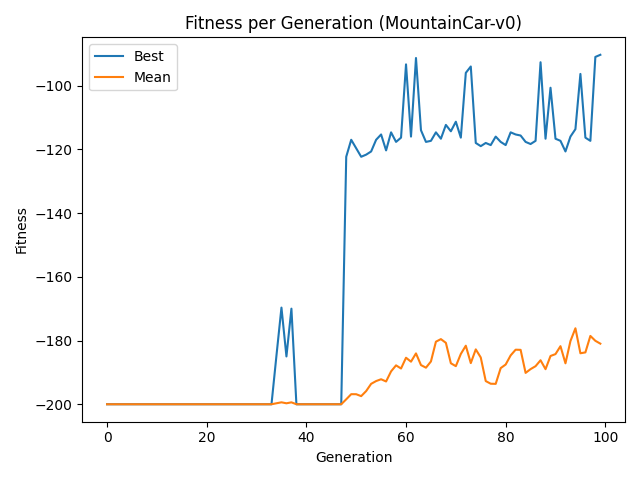
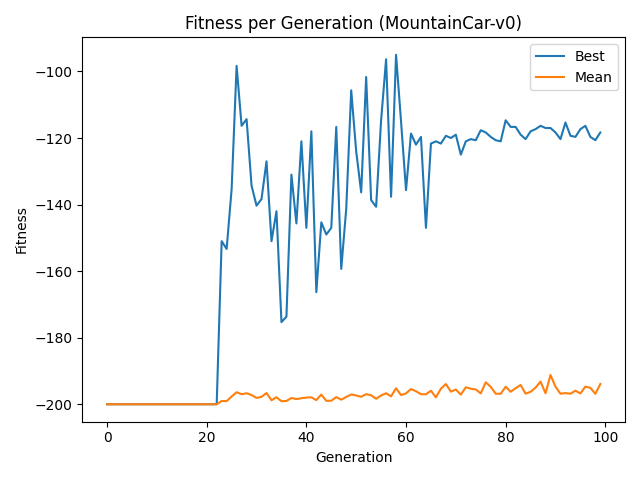
added a gif showing the mountain car result, updated the fitness parameters, updated the readme

diff --git a/README.md b/README.md
@@ -1,4 +1,4 @@
-# 🧠 NEAT Evolution on MountainCar-v0
+# NEAT Evolution on MountainCar-v0
 
 ## Project Description
 
@@ -48,7 +48,7 @@ Make sure you have installed:
 
 1. **Clone the repository**
 ```bash
-git clone https://github.com/yourusername/neat-mountaincar.git
+git clone https://github.com/NicolaAnnu/neat-mountaincar.git
 cd neat-mountaincar
 ```
 
@@ -67,13 +67,13 @@ Run the training with different population sizes:
 
 ```bash
 # Population size: 50
-python train.py --config config_50.txt --generations 100
+python mountain.py --config config.txt --generations 100
 
 # Population size: 200
-python train.py --config config_200.txt --generations 100
+python mountainwith200popsize.py --config config_200.txt --generations 80
 ```
 
-**Output files:** `best_genome_50.pkl`, `best_genome_200.pkl`
+**Output files:** `fitness.png`, `fitnesswith200.png`
 
 ### Evaluation
 
@@ -87,10 +87,6 @@ python evaluate.py --genome best_genome_200.pkl --config config_200.txt --episod
 
 Generate fitness plots, species evolution, and network topology diagrams:
 
-```bash
-python visualize.py --stats fitness_stats.pkl
-```
-
 **Generates:**
 - Best and mean fitness plots
 - Species evolution over generations
@@ -100,25 +96,11 @@ python visualize.py --stats fitness_stats.pkl
 
 ## NEAT Configuration
 
-**Main Parameters:**
-- `fitness_criterion`: max
-- `fitness_threshold`: -110
-- `pop_size`: 50 or 200
-- `reset_on_extinction`: False
-- `no_fitness_termination`: False
-
 **Configuration files:**
-- `config_50.txt` – for population size 50
-- `config_200.txt` – for population size 200
+- `config.txt` – for population size 50
+- `config-pop-size-200.txt` – for population size 200
 
 ---
-
-## Main Results
-
-| Experiment | Population | Generations | Best Fitness | Success Rate | Behavior |
-|------------|------------|-------------|--------------|--------------|----------|
-| **Test 1** | 50 | 100 | -110 | Moderate | Unstable evolution, long stagnation periods, sporadic improvements |
-| **Test 2** | 200 | 100 | -100 | High | Faster improvement, consistent and stable evolution |
 
 **Fitness Evolution - Population 50:**
 ![Fitness with 200 population](./images/fitness.png)
@@ -127,6 +109,8 @@ python visualize.py --stats fitness_stats.pkl
 ![Fitness with 50 population](./images/fitnesswith200popsize.png)
 
 ---
+## NEAT Agent Solving MountainCar-v0
+![Goal Reached](./resultmountaincar/mountaincar.gif)
 
 ## NEAT Process
 
